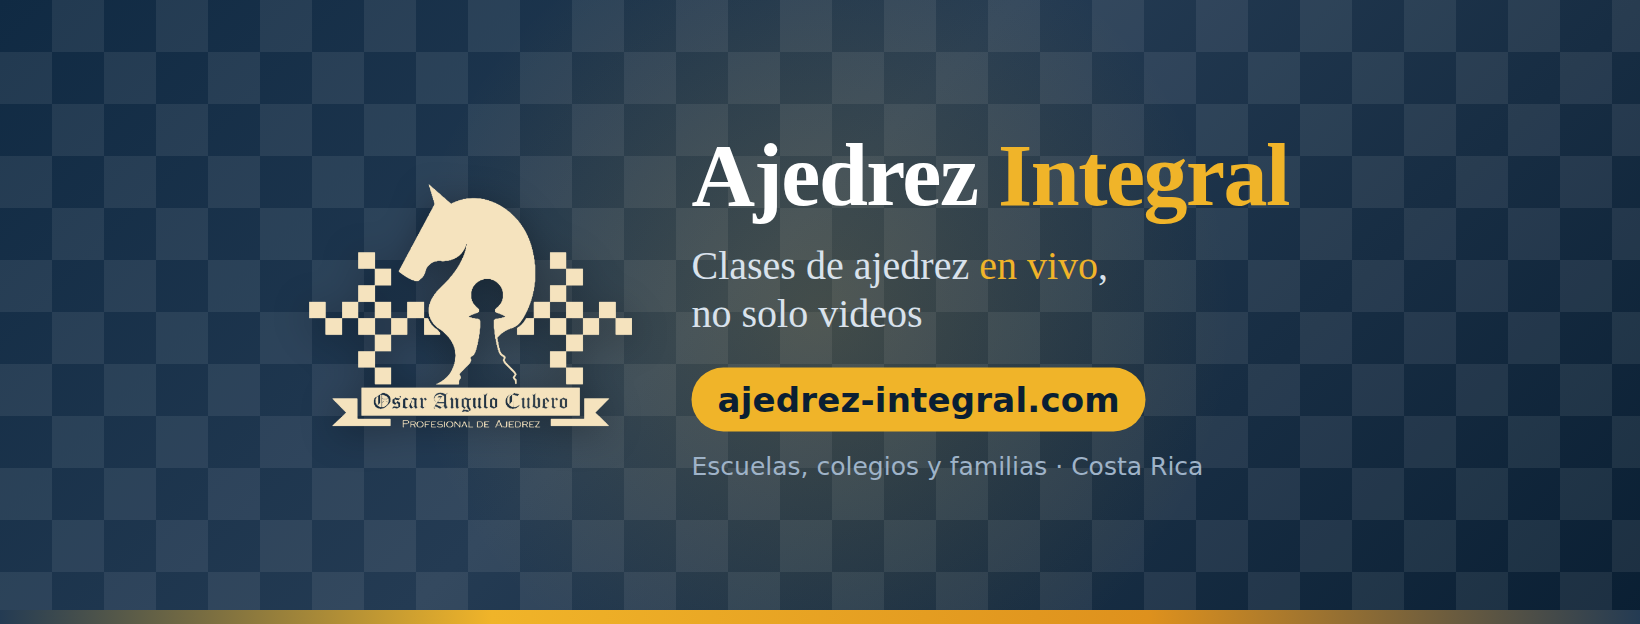
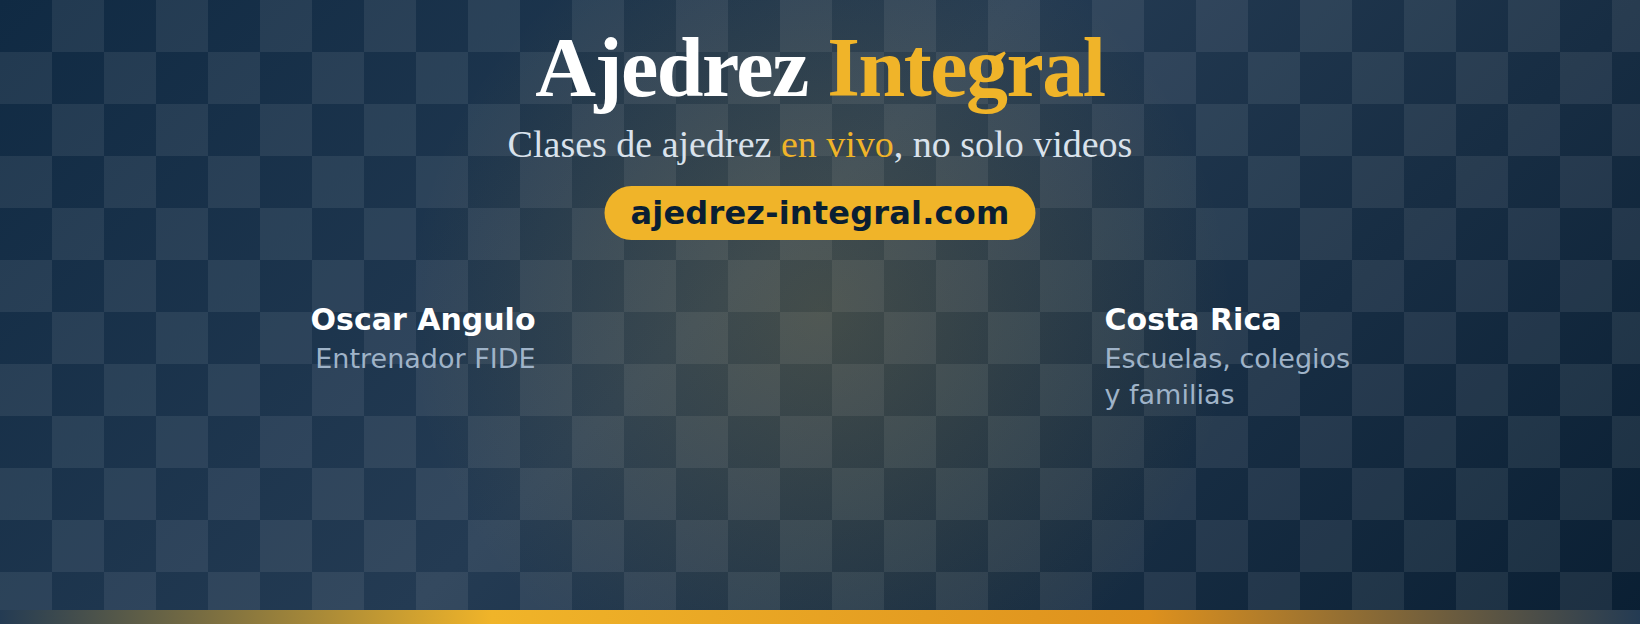
Portada de Facebook sin nada bajo la foto de perfil
En el celular la foto de perfil de la página tapa el centro de la mitad
de abajo de la portada, y ahí quedaban el lema y la dirección. Ahora van
arriba, y el generador falla si un texto cae bajo esa zona (medida en una
captura real).

Claude-Session: https://claude.ai/code/session_01B21hShJBk7fV3DUNhmc5no

diff --git a/herramientas/imagenes-redes.js b/herramientas/imagenes-redes.js
@@ -14,6 +14,9 @@
  *  - Facebook muestra la portada a 820×312 en la computadora (esto es el doble,
  *    para pantallas de alta densidad) y en el celular la recorta a 16:9 por el
  *    centro: se pierden unos 270 px de cada costado.
+ *    Además, la foto de perfil de la página va ENCIMA de la portada (en el
+ *    celular, un círculo centrado sobre la mitad de abajo): esas zonas van en
+ *    `tapado`, y el script también falla si un texto cae debajo.
  *  - Instagram muestra la publicación 4:5 entera en el inicio, pero en la
  *    cuadrícula del perfil la recorta a 3:4 por el centro: unos 34 px de cada
  *    costado.
@@ -74,16 +77,29 @@ const IMAGENES = [
     {
         archivo: "portada-facebook.png", ancho: 1640, alto: 624,
         seguro: { ancho: Math.round(624 * 16 / 9), alto: 624 },   // 1109×624
+        // Lo que Facebook pone ENCIMA de la portada. En el celular, la foto de
+        // perfil de la página es un círculo centrado que tapa la mitad de abajo
+        // (medido en una captura real: centro a 86 % de la altura, radio del
+        // 39 %, con 24 px de margen). En la computadora va abajo a la izquierda.
+        tapado: [
+            { circulo: { x: 820, y: 536, r: 270 } },
+            { rect: { x: 0, y: 440, ancho: 560, alto: 184 } },
+        ],
         css: `
           .lienzo { --casilla: 52px; --casilla2: 104px; }
-          .contenido { width: 1109px; display: flex; align-items: center; gap: 56px;
-                       padding: 0 40px; margin-top: -6px; }
-          .logo { width: 330px; }
-          .nombre { font-size: 88px; }
-          .lema { margin-top: 22px; font-size: 40px; }
-          .sitio { margin-top: 30px; padding: 12px 26px; font-size: 34px; }
-          .nota { margin-top: 20px; font-size: 25px; }`,
-        cuerpo: `${LOGO}<div>${NOMBRE}${LEMA}${SITIO}${NOTA}</div>`,
+          .contenido { width: 1109px; height: 624px; }
+          .arriba { position: absolute; top: 26px; left: 0; right: 0; text-align: center; }
+          .nombre { font-size: 84px; }
+          .lema { margin-top: 12px; font-size: 38px; }
+          .sitio { margin-top: 18px; padding: 8px 26px; font-size: 32px; }
+          .lado { position: absolute; top: 300px; width: 250px; font-size: 27px; line-height: 1.35; }
+          .lado b { display: block; color: #fff; font-size: 30px; }
+          .izq { left: 20px; text-align: right; }
+          .der { right: 20px; text-align: left; }`,
+        cuerpo: `<div class="arriba">${NOMBRE}
+                   <div class="lema">Clases de ajedrez <em>en vivo</em>, no solo videos</div>${SITIO}</div>
+                 <div class="nota lado izq"><b>Oscar Angulo</b>Entrenador FIDE</div>
+                 <div class="nota lado der"><b>Costa Rica</b>Escuelas, colegios y familias</div>`,
     },
     {
         archivo: "instagram.png", ancho: 1080, alto: 1350,
@@ -123,6 +139,23 @@ const IMAGENES = [
                                 || r.top < arr || r.bottom > arr + s.alto)
                 .map(([n]) => n);
         }, img.seguro);
+        // …ni debajo de lo que la red le pone encima (la foto de perfil).
+        const tapados = await pagina.evaluate((zonas) => {
+            const choca = (r, z) => {
+                if (z.rect) return r.left < z.rect.x + z.rect.ancho && r.right > z.rect.x
+                                && r.top < z.rect.y + z.rect.alto && r.bottom > z.rect.y;
+                const { x, y, r: radio } = z.circulo;   // el punto del rectángulo más cercano al centro
+                const cx = Math.max(r.left, Math.min(x, r.right)), cy = Math.max(r.top, Math.min(y, r.bottom));
+                return (cx - x) ** 2 + (cy - y) ** 2 < radio ** 2;
+            };
+            // Solo lo que lleva texto o imagen: una caja vacía puede pasar por detrás.
+            return [...document.querySelectorAll(".contenido *")]
+                .filter((el) => el.tagName === "IMG" || [...el.childNodes].some((n) => n.nodeType === 3 && n.textContent.trim()))
+                .flatMap((el) => [...el.getClientRects()].map((r) => [el.className || el.tagName, r]))
+                .filter(([, r]) => zonas.some((z) => choca(r, z)))
+                .map(([n]) => n);
+        }, img.tapado || []);
+        fuera.push(...tapados.map((n) => `${n} (queda bajo la foto de perfil)`));
         if (fuera.length) {
             console.error(`${img.archivo}: se sale de la franja que siempre se ve:`, fuera.join(", "));
             error = true;

diff --git a/docs/decisiones/sitio-e-infraestructura.md b/docs/decisiones/sitio-e-infraestructura.md
@@ -532,7 +532,12 @@ donde se comparte esto, y sin `og:image` el enlace sale pelado.
   común está una sola vez. Cada red recorta lo que se sube —Facebook, en el
   celular, deja solo el centro 16:9 de la portada; Instagram, en la cuadrícula
   del perfil, el centro 3:4 de la publicación—, así que el script **falla si
-  algo del contenido se sale de la franja que siempre se ve**. Van en PNG porque
+  algo del contenido se sale de la franja que siempre se ve**. En Facebook,
+  además, la foto de perfil de la página tapa el centro de la mitad de abajo en
+  el celular (la primera versión de la portada tenía ahí el lema y la
+  dirección, y quedaban tapados): esa zona, medida en una captura real, va en
+  `tapado` y el script falla si un texto cae debajo. Por eso el nombre, el lema
+  y la dirección van arriba, y abajo solo hay textos cortos a los costados. Van en PNG porque
   las dos recomprimen lo que se sube y un JPEG recomprimido ensucia las letras.
   No las pide ninguna página, así que `img/redes/` está en `.assetsignore`.
 - **Las páginas que piden sesión llevan `noindex`** y no llevan `canonical`: no
